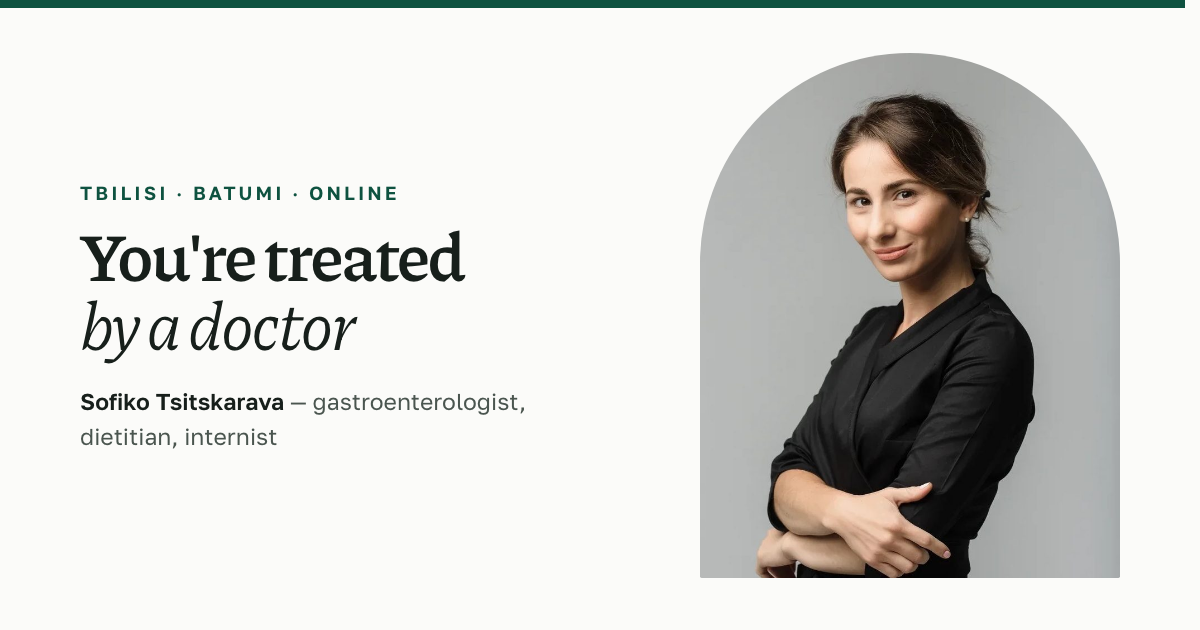
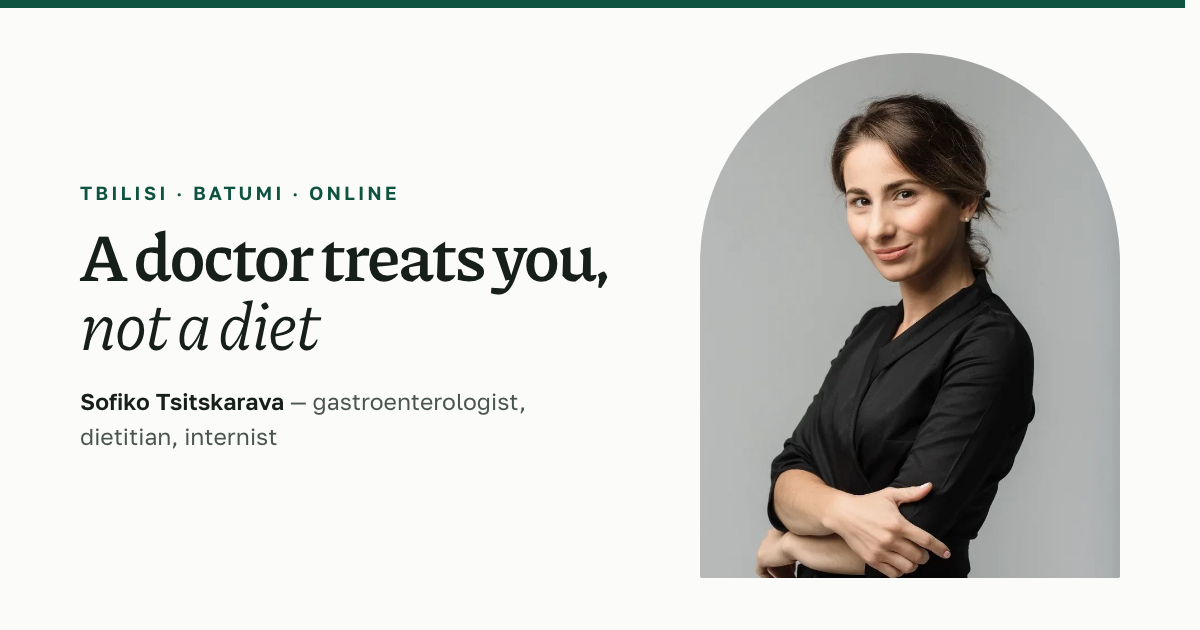
Английский: второй редакторский проход (24 правки), слоган переписан

Changed region(s): [[0.0617, 0.3619, 0.5242, 0.4825], [0.0617, 0.4825, 0.3083, 0.573]]

diff --git a/en/podhod.html b/en/podhod.html
@@ -1,7 +1,7 @@
 <!DOCTYPE html>
 <html lang="en">
 <head>
-<script>try{if(localStorage.getItem('dr_ok')!=='1')location.replace('/vhod.html')}catch(e){}</script><title>Approach to treatment — gastroenterologist Sofiko Tsitskarava, Tbilisi</title>
+<script>try{if(localStorage.getItem('dr_ok')!=='1')location.replace('/vhod.html')}catch(e){}</script><title>My approach to treatment — gastroenterologist Sofiko Tsitskarava, Tbilisi</title>
 <meta name="robots" content="noindex">
 <meta name="description" content="I treat the cause instead of scaring you with consequences: evidence-based medicine, an eating plan built on the “Harvard plate” — no rigid diets. How a consultation works and answers to common questions.">
 <link rel="canonical" href="https://dr-tsitskarava.com/en/podhod.html">
@@ -9,7 +9,7 @@
 <link rel="alternate" hreflang="ru" href="https://dr-tsitskarava.com/ru/podhod.html">
 <link rel="alternate" hreflang="en" href="https://dr-tsitskarava.com/en/podhod.html">
 <link rel="alternate" hreflang="x-default" href="https://dr-tsitskarava.com/podhod.html">
-<meta property="og:title" content="Approach to treatment — gastroenterologist Sofiko Tsitskarava, Tbilisi">
+<meta property="og:title" content="My approach to treatment — gastroenterologist Sofiko Tsitskarava, Tbilisi">
 <meta property="og:description" content="I treat the cause instead of scaring you with consequences: evidence-based medicine, an eating plan built on the “Harvard plate” — no rigid diets. How a consultation works and answers to common questions.">
 <meta property="og:url" content="https://dr-tsitskarava.com/en/podhod.html">
 <meta charset="UTF-8">
@@ -96,13 +96,13 @@
   <div class="wrap row-grid">
     <aside class="rubric">
       <span class="label">My approach</span>
-      <p>evidence-based medicine + respect for your life</p>
+      <p>evidence-based medicine + respect for how you live</p>
     </aside>
     <div>
       <h1 class="page-title">Food isn't a punishment — it's part of the treatment</h1>
       <div class="principles">
-        <p><b>I treat the cause — I don't scare you with consequences.</b> Everything I prescribe follows international guidelines: no “liver drips”, no cleanses, no lists of ten supplements.</p>
-        <p><b>I don't hand you a list of banned foods.</b> Rigid diets lead to binges and fear of food. We shape your eating so your favorite foods stay on the menu — feasts included.</p>
+        <p><b>I treat the cause — I don't scare you with consequences.</b> Everything I prescribe follows international guidelines: no “IV drips for the liver”, no cleanses, no lists of ten supplements.</p>
+        <p><b>I don't hand you a list of banned foods.</b> Rigid diets lead to binges and fear of food. We'll adjust the way you eat so your favorite foods stay on the menu — feasts included.</p>
         <p><b>A plan you can actually follow.</b> Built around your schedule, budget and city. If a recommendation isn't realistic, it's a bad recommendation.</p>
       </div>
       <figure class="plate-fig">
@@ -167,7 +167,7 @@
       <h2 class="vh">Frequently asked questions</h2>
       <details>
         <summary>How is an online visit different from an in-person one?<span class="mark" aria-hidden="true">+</span></summary>
-        <p class="faq-body">Online, I go through your symptoms, tests and previous work-ups just as thoroughly, and I put together a written plan. The only thing missing is a physical exam — if you need one, I'll say so honestly and suggest who to see in person in your city.</p>
+        <p class="faq-body">Online, I go through your symptoms, test results and any scans you've had just as thoroughly, and I put together a written plan. The only thing missing is a physical exam — if you need one, I'll say so honestly and suggest who to see in person in your city.</p>
       </details>
       <details>
         <summary>What tests should I get before the consultation?<span class="mark" aria-hidden="true">+</span></summary>
@@ -175,7 +175,7 @@
       </details>
       <details>
         <summary>Will you put me on a diet?<span class="mark" aria-hidden="true">+</span></summary>
-        <p class="faq-body">A rigid one — no. We'll build your meals around the “Harvard plate” principle, keeping your favorite foods and feasts. Some restrictions may be needed, but they're temporary and there for a reason.</p>
+        <p class="faq-body">Not a rigid one, no. We'll build your meals around the “Harvard plate” principle, keeping your favorite foods and feasts. Some restrictions may be needed, but they're temporary and there for a reason.</p>
       </details>
       <details>
         <summary>Do you accept insurance in Georgia?<span class="mark" aria-hidden="true">+</span></summary>
@@ -183,7 +183,7 @@
       </details>
       <details>
         <summary>Do you see pregnant and breastfeeding patients?<span class="mark" aria-hidden="true">+</span></summary>
-        <p class="faq-body">Yes. Heartburn, nausea, constipation, nutrition and supplements during pregnancy and breastfeeding are a regular part of my practice. I only choose options compatible with both.</p>
+        <p class="faq-body">Yes. Heartburn, nausea, constipation, nutrition and supplements during pregnancy and breastfeeding are a regular part of my practice. I only recommend options that are compatible with both.</p>
       </details>
     </div>
   </div>
@@ -194,7 +194,7 @@
 <footer>
   <div class="wrap">
     <div class="foot">
-      <small>The information on this site is for reference only, does not constitute a public offer and&nbsp;does not replace a consultation with a doctor.</small>
+      <small>The information on this site is for general guidance only, is not a public offer and&nbsp;does not replace a consultation with a doctor.</small>
       <small class="foot-year">© 2026 Sofiko Tsitskarava</small>
     </div>
   </div>

diff --git a/en/index.html b/en/index.html
@@ -3,14 +3,14 @@
 <head>
 <script>try{if(localStorage.getItem('dr_ok')!=='1')location.replace('/vhod.html')}catch(e){}</script><title>Gastroenterologist in Tbilisi — Sofiko Tsitskarava, Caraps Medline</title>
 <meta name="robots" content="noindex">
-<meta name="description" content="Sofiko Tsitskarava — gastroenterologist, dietitian and internist. In-person visits at Caraps Medline (Digomi and Vake, Tbilisi), Batumi visiting days and online worldwide. Consultations in Georgian, Russian and English.">
+<meta name="description" content="Sofiko Tsitskarava — gastroenterologist, dietitian and internist. In-person visits at Caraps Medline (Digomi and Vake, Tbilisi), visiting days in Batumi, and online consultations worldwide — in Georgian, Russian and English.">
 <link rel="canonical" href="https://dr-tsitskarava.com/en/">
 <link rel="alternate" hreflang="ka" href="https://dr-tsitskarava.com/">
 <link rel="alternate" hreflang="ru" href="https://dr-tsitskarava.com/ru/">
 <link rel="alternate" hreflang="en" href="https://dr-tsitskarava.com/en/">
 <link rel="alternate" hreflang="x-default" href="https://dr-tsitskarava.com/">
 <meta property="og:title" content="Gastroenterologist in Tbilisi — Sofiko Tsitskarava, Caraps Medline">
-<meta property="og:description" content="Sofiko Tsitskarava — gastroenterologist, dietitian and internist. In-person visits at Caraps Medline (Digomi and Vake, Tbilisi), Batumi visiting days and online worldwide. Consultations in Georgian, Russian and English.">
+<meta property="og:description" content="Sofiko Tsitskarava — gastroenterologist, dietitian and internist. In-person visits at Caraps Medline (Digomi and Vake, Tbilisi), visiting days in Batumi, and online consultations worldwide — in Georgian, Russian and English.">
 <meta property="og:url" content="https://dr-tsitskarava.com/en/">
 <meta charset="UTF-8">
 <meta name="viewport" content="width=device-width, initial-scale=1">
@@ -156,8 +156,8 @@
         <circle class="vine-seed" cx="202" cy="51" r="1.7"/>
       </svg>
       <h1>
-        <span class="h1-line"><span>You're treated by a doctor,</span></span>
-        <span class="h1-line"><span><em>not by a diet</em></span></span>
+        <span class="h1-line"><span>It's the doctor who treats you,</span></span>
+        <span class="h1-line"><span><em>not the diet</em></span></span>
       </h1>
       <p class="lede">I'm Sofiko Tsitskarava — a gastroenterologist, dietitian and internist. I look for the <b>cause</b> of heartburn, bloating, IBS or weight problems — and treat it with evidence-based medicine, without putting “everything” off-limits. Consultations in Russian, Georgian and English.</p>
       <p class="clinic-line">I see patients at <b>Caraps Medline</b> — Digomi and Vake, Tbilisi. I accept Georgian insurance.</p>
@@ -175,7 +175,7 @@
 <div class="facts">
   <div class="wrap facts-grid">
     <div class="fact"><b class="num">14+ years</b><span>of medical practice — St. Petersburg, then Georgia</span></div>
-    <div class="fact"><b class="num">2 cities</b><span>for in-person visits: Tbilisi and Batumi; online — worldwide</span></div>
+    <div class="fact"><b class="num">2 cities</b><span>for in-person visits: Tbilisi and Batumi — plus online, worldwide</span></div>
     <div class="fact"><b class="num">3 languages</b><span>spoken — Russian, Georgian and English</span></div>
   </div>
 </div>
@@ -251,8 +251,8 @@
 <section class="closing" id="book">
   <div class="wrap closing-grid">
     <div>
-      <h2>Let's figure out what's going on with you</h2>
-      <p class="kicker">Choose whichever is easier for you. Describe your situation briefly — I'll suggest the right format and we'll find a time.</p>
+      <h2>Let's figure out what's going on</h2>
+      <p class="kicker">Pick whichever way is easier for you. Tell me briefly what's been bothering you — I'll suggest the right format and we'll find a time.</p>
       <div class="ways">
         <a class="way" href="https://ig.me/m/dr.tsitskarava" target="_blank" rel="noopener">
           <span class="way__name">Instagram</span>
@@ -263,7 +263,7 @@
           <span class="way__hint">Send me a direct message<span class="vh"> (opens in a new tab)</span></span>
         </a>
       </div>
-      <p class="ways-note">With a Georgian ID or residence permit you can also book an in-person visit through the clinic's portal — <a href="https://myhealth.carapsmedline.ge/" target="_blank" rel="noopener">MyHealth Caraps Medline<span class="vh"> (opens in a new tab)</span></a>. Everyone else — the direct messages above.</p>
+      <p class="ways-note">If you have a Georgian ID or residence permit, you can also book an in-person visit through the clinic's portal — <a href="https://myhealth.carapsmedline.ge/" target="_blank" rel="noopener">MyHealth Caraps Medline<span class="vh"> (opens in a new tab)</span></a>. If not, just message me using the links above.</p>
     </div>
     <div class="contact-list">
       <div class="contact-row"><b>Telegram</b><span><a href="https://t.me/dr_tsitskarava" target="_blank" rel="noopener">@dr_tsitskarava<span class="vh"> (opens in a new tab)</span></a></span></div>
@@ -278,7 +278,7 @@
 <footer>
   <div class="wrap">
     <div class="foot">
-      <small>The information on this site is for reference only, does not constitute a public offer and&nbsp;does not replace a consultation with a doctor.</small>
+      <small>The information on this site is for general guidance only, is not a public offer and&nbsp;does not replace a consultation with a doctor.</small>
       <small class="foot-year">© 2026 Sofiko Tsitskarava</small>
     </div>
   </div>

diff --git a/en/pomogayu.html b/en/pomogayu.html
@@ -73,11 +73,11 @@
         </div>
         <div class="help-item" id="s3">
           <h3>Bloating and gas</h3>
-          <p>We look for what's causing the gas instead of a lifelong list of forbidden foods.</p>
+          <p>We look for what's causing the gas instead of writing out a lifelong list of forbidden foods.</p>
         </div>
         <div class="help-item" id="s4">
           <h3>IBS, constipation and diarrhea</h3>
-          <p>Irritable bowel syndrome is treatable. Calmly, step by step, and without a “strict diet forever”.</p>
+          <p>Irritable bowel syndrome is treatable — calmly, step by step, and without a “strict diet forever”.</p>
         </div>
         <div class="help-item" id="s5">
           <h3>Liver and gallbladder</h3>
@@ -85,7 +85,7 @@
         </div>
         <div class="help-item" id="s6">
           <h3>Weight and eating habits</h3>
-          <p>Weight loss without binges and guilt — a way of eating you can stick with for more than a month.</p>
+          <p>Weight loss without bingeing or guilt — a way of eating you can stick with for more than a month.</p>
         </div>
         <div class="help-item" id="s7">
           <h3>Pregnancy and breastfeeding</h3>
@@ -132,9 +132,9 @@
             <circle class="c-dot" cx="393" cy="270" r="3.5"/>
           </g>
         </svg>
-        <figcaption>these are the concerns people bring to me most often — and what we work on at the visit</figcaption>
+        <figcaption>these are the concerns people bring to me most often — and what we work on at your visit</figcaption>
       </figure>
-      <p class="help-foot">Not sure I'm “the right doctor” for you? Message me with a short description of your situation — <b>I'll tell you honestly whether you need me or another specialist</b>.
+      <p class="help-foot">Not sure I'm “the right doctor” for you? Send me a short message about what's going on — <b>I'll tell you honestly whether you need me or another specialist</b>.
       <a class="textlink" href="index.html#book">Book a visit</a></p>
     </div>
   </div>
@@ -145,7 +145,7 @@
 <footer>
   <div class="wrap">
     <div class="foot">
-      <small>The information on this site is for reference only, does not constitute a public offer and&nbsp;does not replace a consultation with a doctor.</small>
+      <small>The information on this site is for general guidance only, is not a public offer and&nbsp;does not replace a consultation with a doctor.</small>
       <small class="foot-year">© 2026 Sofiko Tsitskarava</small>
     </div>
   </div>

diff --git a/en/o-mne.html b/en/o-mne.html
@@ -114,8 +114,8 @@
         <div class="photo photo--arch"><img src="/img/sofiko-380.jpg" srcset="img/sofiko-380.jpg 380w, img/sofiko-752.jpg 752w" sizes="(max-width: 640px) 320px, 380px" width="752" height="940" alt="Sofiko Tsitskarava, gastroenterologist" loading="lazy" decoding="async"></div>
         <div class="bio">
           <p>I grew up and trained as a doctor in St. Petersburg: <b>Mechnikov North-Western State Medical University</b>, then an internal medicine internship at <b>Pavlov First St. Petersburg State Medical University</b>. I worked as a gastroenterologist at three clinics across the city.</p>
-          <p>In 2022 I returned to my ancestral homeland, Georgia. I obtained a medical license and now see patients in Tbilisi and Batumi, and hold online consultations worldwide — in Russian, Georgian and English.</p>
-          <p>I believe a doctor's job is to explain, not to frighten. That's why I write a blog, give lectures for doctors and talk about digestion in a way that leaves you calm after the visit, not scared.</p>
+          <p>In 2022 I returned to my ancestral homeland, Georgia. I got my medical license here and now see patients in Tbilisi and Batumi, and online anywhere in the world — in Russian, Georgian and English.</p>
+          <p>I believe a doctor's job is to explain, not to frighten. That's why I write a blog, give lectures for doctors and talk about digestion so that after a visit you feel calm, not scared.</p>
           <dl class="cv">
             <div class="cv-row"><dt>Education</dt><dd>Mechnikov North-Western State Medical University, General Medicine; internal medicine internship — Pavlov First St. Petersburg State Medical University; specialization in gastroenterology</dd></div>
             <div class="cv-row"><dt>Experience</dt><dd>14+ years of practice: clinics in St. Petersburg; licensed and seeing patients in Georgia since 2022</dd></div>
@@ -136,7 +136,7 @@
 <footer>
   <div class="wrap">
     <div class="foot">
-      <small>The information on this site is for reference only, does not constitute a public offer and&nbsp;does not replace a consultation with a doctor.</small>
+      <small>The information on this site is for general guidance only, is not a public offer and&nbsp;does not replace a consultation with a doctor.</small>
       <small class="foot-year">© 2026 Sofiko Tsitskarava</small>
     </div>
   </div>
